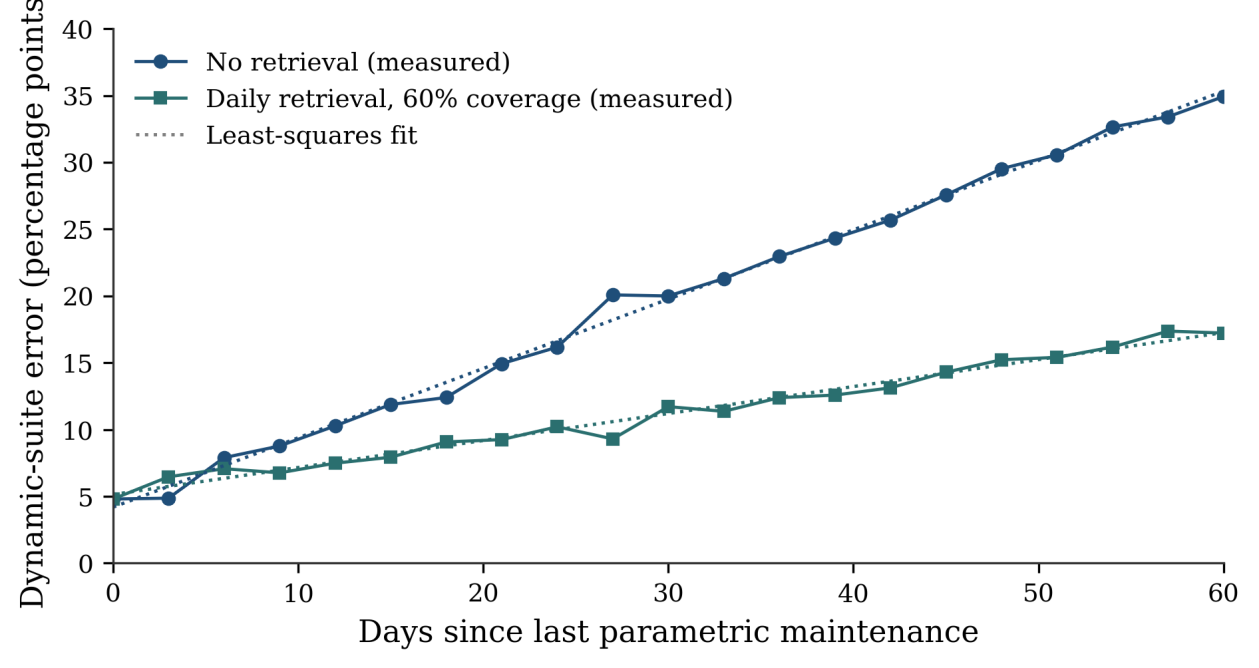
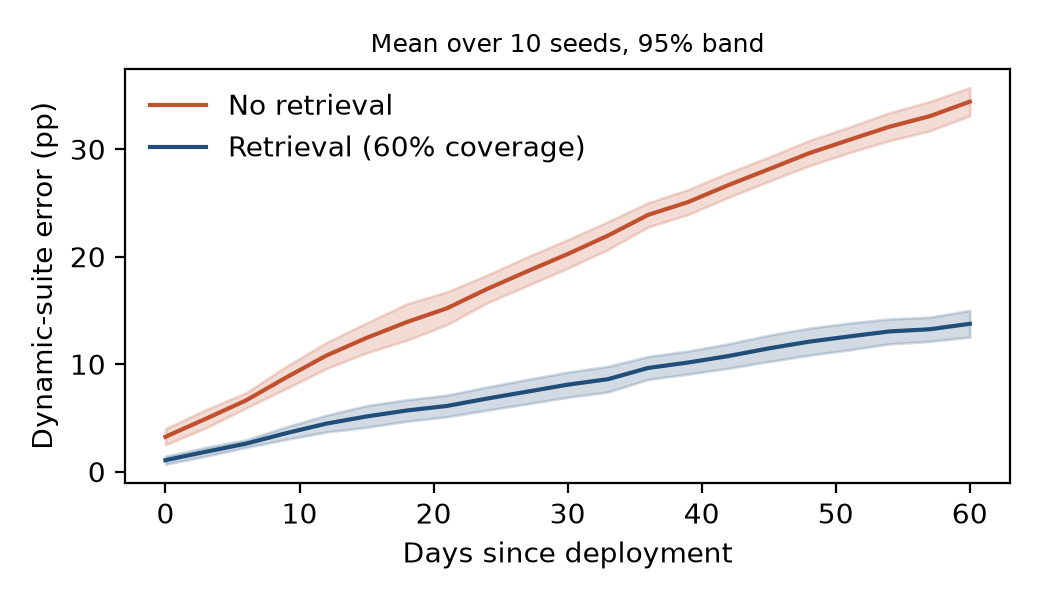
Update measurement study to the ten-seed results; revise limitations and data availability
Claude-Session: https://claude.ai/code/session_01U6LiEPsSJSoHgvUwD7nndr

Changed region(s): [[0.0, 0.0, 0.9846, 0.96]]

diff --git a/ieee_tr/manuscript.tex b/ieee_tr/manuscript.tex
@@ -28,7 +28,7 @@
 \maketitle
 
 \begin{abstract}
-A deployed large language model (LLM) is a deteriorating system. Its task-relevant accuracy decays as the world drifts away from the training distribution, and every parameter update risks damaging competence that users already rely on. We cast the resulting decision, namely when to update, by which mechanism, and whether to add an external retrieval store, as a condition-based maintenance problem. Staleness is modeled as a shock-and-wear process driven by a marked point process of drift events, and forgetting as an imperfect repair whose damage is a Fisher-information-weighted quadratic form. For a single-threshold full-retraining policy, a renewal-reward argument gives a square-root law that links update cost, drift intensity, and the optimal cycle length; the same argument shows that a repair leaving less residual damage should be applied more often, not less. For a graduated repair menu, we show that an average-cost Markov decision process admits a nested control-limit policy under stochastic monotonicity and submodularity conditions. Retrieval enters as a compensator that lowers the observed drift rate without repairing the parameters, and a closed-form condition states when the store pays for its upkeep. A measurement study on a public 70-million-parameter model supports affine staleness growth, a retrieval-absorbed share equal to corpus coverage, and a mechanism ranking in which an unreplayed low-rank adapter is dominated by taking no action.
+A deployed large language model (LLM) is a deteriorating system. Its task-relevant accuracy decays as the world drifts away from the training distribution, and every parameter update risks damaging competence that users already rely on. We cast the resulting decision, namely when to update, by which mechanism, and whether to add an external retrieval store, as a condition-based maintenance problem. Staleness is modeled as a shock-and-wear process driven by a marked point process of drift events, and forgetting as an imperfect repair whose damage is a Fisher-information-weighted quadratic form. For a single-threshold full-retraining policy, a renewal-reward argument gives a square-root law that links update cost, drift intensity, and the optimal cycle length; the same argument shows that a repair leaving less residual damage should be applied more often, not less. For a graduated repair menu, we show that an average-cost Markov decision process admits a nested control-limit policy under stochastic monotonicity and submodularity conditions. Retrieval enters as a compensator that lowers the observed drift rate without repairing the parameters, and a closed-form condition states when the store pays for its upkeep. A measurement study on a public 70-million-parameter model, replicated over ten seeds, supports affine staleness growth, a retrieval-absorbed share equal to corpus coverage, and a mechanism ranking in which an unreplayed low-rank adapter is dominated by taking no action.
 \end{abstract}
 
 \begin{IEEEkeywords}
@@ -60,7 +60,7 @@ The paper makes four contributions to the maintenance literature and one measure
 \item \emph{Fisher-weighted imperfect repair.} The forgetting penalty used in EWC and related methods \cite{kirkpatrick2017} is recast as an imperfect-repair map. Residual damage after a repair is a scalar that restarts the degradation index above zero, as in the imperfect-maintenance models surveyed in \cite{pham1996}. A direct consequence, not available from the classical replacement model, is that a cheaper and safer repair should be used more often.
 \item \emph{Multi-action control limits.} The joint timing-and-mechanism problem is an average-cost MDP on a discretized degradation index crossed with a drift-hazard regime. Under stochastic monotonicity of the transition tails, a total order on the actions, and submodularity of the continuation value, the optimal policy is a nested control-limit rule (Proposition~\ref{prop:cl}). This is the multi-action analogue of the single-threshold policies that are optimal for monotone degradation \cite{barlow1965,wang2002}.
 \item \emph{Retrieval as a compensator.} Retrieval lowers the effective drift rate by the share of shocks the corpus can absorb and does not displace parameters. Substituting the reduced rate into the renewal-reward program gives a closed-form investment test: the store is worth its upkeep exactly when the upkeep is below the reduction it creates in the optimal parametric-maintenance cost rate.
-\item \emph{Measurement.} The model inputs (staleness slope, retrieval-absorbed share, and per-mechanism cost, effectiveness, and forgetting) are instantiated on the public Pythia-70M checkpoint \cite{biderman2023} with a synthetic world of facts absent from pre-training. The study confirms affine growth and a retrieval share equal to coverage, and it exhibits a parameter-efficient update that violates the assumed action order and is dominated by no action.
+\item \emph{Measurement.} The model inputs (staleness slope, retrieval-absorbed share, and per-mechanism cost, effectiveness, and forgetting) are instantiated on the public Pythia-70M checkpoint \cite{biderman2023} with a synthetic world of facts absent from pre-training. Over ten seeds, the study confirms affine growth and a retrieval share equal to coverage, and it exhibits a parameter-efficient update that violates the assumed action order and is dominated by no action.
 \end{enumerate}
 The paper is a contribution to stochastic maintenance modeling, applied to a digital asset whose repair technology is gradient-based. It does not propose a new continual-learning algorithm, and it is not a field study of a production system.
 
@@ -349,48 +349,56 @@ Three patterns are worth stating. First, with $K_R$ fixed, $t^\ast$ falls by a f
 A Weibull inter-event law with shape above one gives an increasing hazard and a decreasing mean residual life; shape below one gives the opposite; shape one recovers the Poisson case. Section~\ref{sec:shock} predicts that a policy that shortens the calendar interval as time since the last shock grows beats the memoryless threshold under decreasing mean residual life, and that the same heuristic loses under increasing mean residual life. We have not run this experiment. For any fitted arrival model the predictions can be checked by solving the regime-dependent MDP of Section~\ref{sec:mdp}. If they are confirmed, the shape of the arrival hazard is a first-order determinant of the policy class an organization should adopt, and it is estimable from historical detector alarms.
 
 \subsection{Measurement on a Public Pretrained Model}
-The measurement side of the framework is instantiated on EleutherAI Pythia-70M \cite{biderman2023} with a synthetic world of facts guaranteed to be absent from pre-training. The world has 150 fictional companies, each with three dynamic attributes (chief executive, headquarters city, main product; 450 facts) that are subject to drift, and one static attribute (founding year; 150 facts) that never changes and serves as the retention suite. Each attribute has eight candidate values. The model is scored as correct if the true value receives the highest summed token log-probability among the eight candidates given a fixed prompt. Staleness is the error rate on the dynamic suite in percentage points; forgetting is the change in error rate on the static suite, where one static fact equals 0.67 percentage points.
+The measurement side of the framework is instantiated on EleutherAI Pythia-70M \cite{biderman2023} with a synthetic world of facts that cannot occur in pre-training. The world has 150 fictional companies, each with three dynamic attributes (chief executive, headquarters city, main product; 450 facts) that are subject to drift, and one static attribute (founding year; 150 facts) that never changes and serves as the retention suite. Each attribute has eight candidate values. The model is scored as correct if the true value receives the highest summed token log-probability among the eight candidates given a fixed prompt. Staleness is the error rate on the dynamic suite in percentage points; forgetting is the change in error rate on the static suite, where one static fact equals 0.67 percentage points.
 
-Drift events arrive as a Poisson process with rate three per day, each replacing one randomly chosen dynamic fact. Seventy percent of events are assumed detected and logged. Sixty percent of the dynamic facts are indexed in an external store refreshed daily. The deployed checkpoint at $t=0$ is obtained by fine-tuning the pretrained model until it answers at least 95\% of both suites correctly, with and without retrieved notes. All figures below come from a single random seed on a single GPU and should be read as a controlled measurement, not as an estimate with standard errors.
+Drift events arrive as a Poisson process with rate three per day, each replacing one randomly chosen dynamic fact. Seventy percent of events are detected and logged. Sixty percent of the dynamic facts are indexed in an external store refreshed daily. The deployed checkpoint at $t=0$ is obtained by fine-tuning the pretrained model until it answers at least 95\% of the dynamic suite, the static suite, and the dynamic suite with retrieved notes correctly. The training mix includes notes that conflict with the memorized value, so that the model learns to follow retrieved text; this took 65 to 175 epochs depending on the seed. Every number below is a mean over ten random seeds. Each seed draws its own company names and facts, drift stream, indexed subset, and deployed checkpoint. Intervals are 95\% $t$-intervals across seeds.
 
-Over 60 days without parametric maintenance, OLS yields a slope of 0.519 percentage points per day without retrieval ($R^2=0.98$) and 0.202 with a daily retrieval refresh ($R^2=0.96$). Both trajectories are well described by the affine mean of Section~\ref{sec:shock}. Over this horizon 180 events are expected, and the expected fraction of distinct dynamic facts that have changed at least once is $1-e^{-180/450}\approx0.33$ rather than one, so the affine fit is still a local approximation to a saturating process. Retrieval removes $1-0.202/0.519\approx0.61$ of the drift slope, which matches the indexed share of 0.60 to the resolution of the experiment: retrieval absorbs the share of drift that it covers, and no more. Substituting $\alpha/\gamma=0.61$ into \eqref{eq:retr} predicts that the store lengthens the economically optimal parametric interval by a factor of about 1.60 and lowers the optimal staleness threshold by the reciprocal factor 0.62. Fig.~\ref{fig:drift} plots the two measured trajectories and the fitted lines.
+Three parametric repairs are applied, separately and from the same deployed checkpoint, after 10 and 30 days of drift. The localized edit updates the MLP block of one layer on the logged facts whose value has changed, together with ten unchanged facts per edited fact; the replayed facts act as a locality constraint. The LoRA adapter \cite{hu2022} has rank 16 on all layers and no replay. The full fine-tune updates all parameters on the current value of every fact. Learning rates and epoch counts were fixed on a separate pilot seed that is not among the ten reported. For each mechanism we took the setting with the fewest processed tokens whose accuracy on the facts it was trained on was at least 0.9 and, for the edit, whose accuracy on untouched facts was at least 0.95. This rule was written down before the final pilot round and uses neither total error nor retention. The pilot results are part of the supplementary material.
+
+Over 60 days without parametric maintenance, OLS yields a slope of 0.525 percentage points per day without retrieval (95\% CI 0.503 to 0.547; mean $R^2=0.99$) and 0.213 with a daily retrieval refresh (0.190 to 0.237; mean $R^2=0.98$). Both trajectories are well described by the affine mean of Section~\ref{sec:shock}. Over this horizon 180 events are expected, and the expected fraction of distinct dynamic facts that have changed at least once is $1-e^{-180/450}\approx0.33$ rather than one, so the affine fit is still a local approximation to a saturating process. Retrieval removes a share $1-0.213/0.525$ of the drift slope, which averages 0.593 across seeds (95\% CI 0.547 to 0.638). The indexed share of 0.60 lies inside this interval (one-sample $t$-test against 0.60, $p=0.73$): retrieval absorbs the share of drift that it covers, and no more. Substituting the per-seed share into \eqref{eq:retr} predicts that the store lengthens the economically optimal parametric interval by a factor of 1.58 (1.49 to 1.67) and lowers the optimal staleness threshold to 0.64 (0.60 to 0.67) of its no-retrieval value. Fig.~\ref{fig:drift} plots the two measured trajectories.
 
 \begin{figure}[t]
 \centering
 \includegraphics[width=\columnwidth]{figs/fig4_measured_drift.png}
-\caption{Dynamic-suite error of the deployed Pythia-70M model over 60 days without parametric maintenance, scored every three days (single seed). Dotted lines are least-squares fits. The intercept is the residual error of the freshly maintained model. Retrieval over a corpus covering 60\% of drifting facts reduces the fitted slope from 0.519 to 0.202 percentage points per day.}\label{fig:drift}
+\caption{Dynamic-suite error of the deployed Pythia-70M model over 60 days without parametric maintenance, scored every three days. Lines are means over ten seeds and bands are 95\% intervals across seeds. Retrieval over a corpus covering 60\% of the drifting facts reduces the fitted slope from 0.525 to 0.213 percentage points per day.}\label{fig:drift}
 \end{figure}
 
 \begin{table*}[t]
-\caption{Measured Cost, Error Reduction, and Forgetting of Three Parametric Mechanisms on Pythia-70M}\label{tab:mech}
+\caption{Measured Cost, Error Reduction, and Forgetting of Three Parametric Mechanisms on Pythia-70M (Ten Seeds)}\label{tab:mech}
 \centering
 \footnotesize
-\begin{tabular}{llccc}
+\begin{tabular}{llccccc}
 \toprule
-Mechanism & Trainable subset & Cost & Error before $\to$ after (pp) & Retention change (pp)\\
+Mechanism & Trainable subset & Cost, $K'$ & Cost, $K$ & Error before $\to$ after (pp) & Retention change (pp) & Raises error (\%)\\
 \midrule
-Localized edit & MLP block of one layer, logged entities & 14.0 & $17.4\to13.8$ & $-2.0$\\
-LoRA, rank 16, no replay & Low-rank adapters, all layers & 2.6 & $17.4\to24.4$ & $+11.0$\\
-Full fine-tune & All parameters & 1000 & $17.4\to5.7$ & $-2.0$\\
+Localized edit & MLP block of one layer & 37 & 636 & $16.7\to11.7$ & $-1.1$ (SD 1.5) & 40\\
+LoRA, rank 16, no replay & Low-rank adapters, all layers & 1.4 & 71 & $16.7\to94.5$ & $+36.0$ (SD 11.6) & 100\\
+Full fine-tune & All parameters & 1000 & 1000 & $16.7\to4.4$ & $-1.4$ (SD 1.8) & 5\\
 \bottomrule
 \end{tabular}\\[2pt]
-\parbox{0.92\textwidth}{\footnotesize Values are averages of interventions after 10 and 30 days of drift. Costs use the trainable-parameter accounting and are normalized so that a full fine-tune equals 1000 units. Error is the sum of dynamic-suite staleness and static-suite error, that is, $D$ plus the residual error of the deployed model. A change of $-2.0$ pp is three of 150 retention facts and lies within single-seed noise.}
+\parbox{0.92\textwidth}{\footnotesize Means over ten seeds of the average of the interventions after 10 and 30 days of drift. Costs are normalized so that a full fine-tune equals 1000 units, under the trainable-parameter accounting $K'$ and the forward-inclusive accounting $K$ of Section~\ref{sec:model}. Error is the sum of dynamic-suite and static-suite error and can therefore exceed 100. Retention change is the change in static-suite error; one static fact is 0.67 pp. The last column is the share of the 20 interventions (ten seeds, two days) after which total error was not lower than before.}
 \end{table*}
 
-Table~\ref{tab:mech} gives the cost, error reduction, and forgetting of three parametric mechanisms. Two of them behave as the framework anticipates. The full fine-tune is the most effective and by far the most expensive. The localized edit removes less error at two orders of magnitude lower trainable-parameter cost, and neither mechanism produced measurable forgetting. Per unit of that cost, the edit removes more error than the full fine-tune, which is the concrete expression of the Section~\ref{sec:imperfect} argument that a displacement confined to a small subspace can purchase plasticity at negligible stability cost. The comparison overstates the edit's advantage under the forward-inclusive accounting of Section~\ref{sec:model}, which also charges a forward pass through all parameters and a backward pass down to the edited layer. Together, the two mechanisms satisfy the order assumed in condition (ii) of Assumption~\ref{as:monotone}: the more aggressive action is both more effective and more expensive. Fig.~\ref{fig:mech} summarizes the three columns of Table~\ref{tab:mech}.
+Table~\ref{tab:mech} gives the cost, error reduction, and forgetting of the three mechanisms. The full fine-tune is the most effective and by far the most expensive: it lowers total error by 12.3 pp (95\% CI 9.1 to 15.6) and raised it in only one of 20 interventions. The localized edit lowers total error by 5.1 pp (0.8 to 9.4) at a trainable-parameter cost 27 times smaller. Neither shows forgetting. Their retention changes of $-1.1$ and $-1.4$ pp are below two static facts and slightly negative, which is expected because the static facts are partly replayed. Fig.~\ref{fig:mech} summarizes the three columns of Table~\ref{tab:mech}.
 
 \begin{figure}[t]
 \centering
 \includegraphics[width=\columnwidth]{figs/fig5_mechanisms.png}
-\caption{Measured cost, error reduction, and forgetting of the three parametric mechanisms in Table~\ref{tab:mech}. The unreplayed low-rank adapter is cheap but increases total error and retention error, and is therefore dominated by taking no action.}\label{fig:mech}
+\caption{Measured cost, error reduction, and forgetting of the three parametric mechanisms in Table~\ref{tab:mech}; bars are means over ten seeds with one standard deviation, dots are single seeds. The unreplayed low-rank adapter is cheap but raises total error and retention error, and is therefore dominated by taking no action.}\label{fig:mech}
 \end{figure}
 
-The low-rank adapter does not follow the pattern. It is the cheapest of the three under trainable-parameter accounting, yet it raises total error from 17.4 to 24.4 percentage points and induces 11.0 points of forgetting on the retention suite. An unreplayed adapter trained at a comparatively high learning rate on drifting facts alone produces a displacement that is not orthogonal to high-curvature directions of the pre-update loss on static facts. Low rank bounds the Euclidean size of $\Delta\theta$ and does not by itself constrain the Fisher-weighted norm: parameter efficiency is not low forgetting. The measured costs also break the nominal order of the action set, because the efficient action is cheaper than the edit instead of more expensive. The adapter is nevertheless harmless to the policy. It costs more than no action, forgets more, and leaves a higher next-state error, so it is dominated. Because $V$ is nondecreasing in $d$, an action whose one-step cost is higher and whose next state is stochastically larger than those of no action is never strictly preferred. Removing it leaves the ordered set \{no-op, localized edit, full fine-tune\}, which satisfies condition (ii). We report the configuration as measured instead of tuning it away because it shows that the ordering in Proposition~\ref{prop:cl} is a property to be verified from a table of the form of Table~\ref{tab:mech}.
+The benefit of the edit depends on the state in which it is applied. After 10 days, when total error before repair averages 11.4 pp, the edit changed total error by $+0.9$ pp on average and raised it in six of ten seeds. After 30 days, at 22.0 pp, it lowered error by 11.1 pp and raised it in two of ten seeds. This is the pattern a control-limit policy exploits, doing nothing below a threshold and editing above it. Two maintenance epochs are too few to estimate the threshold, so we offer this as an observation and not as a test of Proposition~\ref{prop:cl}. Two qualifications apply. First, the edit worked only with locality replay. In a pilot with one replayed fact per edited fact, the edit settings that fitted at least 0.9 of the edited facts still raised total error by 22 to 34 pp, because the update overwrote unchanged dynamic facts. Second, the fixed settings did not transfer evenly across seeds. The mean accuracy on the facts being repaired was 0.65 for the edit (0.15 to 1.00 across seeds) and 0.85 for the full fine-tune, against 0.95 and 0.99 on the pilot seed. We did not investigate the cause.
 
-The study validates the framework at the level of its inputs, on a small model with synthetic drift. Validation at the level of the scheduling decision itself, namely a closed-loop comparison of a periodic calendar with the control-limit policy of Proposition~\ref{prop:cl}, replication over seeds, and larger models, is left open.
+The edit's cost advantage also depends on the accounting. Under the trainable-parameter accounting, the edit removes about eleven times more error per cost unit than the full fine-tune (0.135 versus 0.012 pp per unit). Under the forward-inclusive accounting, which also charges a forward pass through all parameters and a backward pass down to the edited layer, the edit costs 636 against 1000 and the ranking reverses (0.0079 versus 0.0123). Part of the difference is the replay: the edit processes more tokens than the full fine-tune (about 73,000 against 58,000). In all ten seeds, the full fine-tune was both more effective and more expensive than the edit under the trainable-parameter accounting, so the order assumed in condition (ii) of Assumption~\ref{as:monotone} holds for these two actions.
+
+The low-rank adapter does not follow the pattern. It is the cheapest of the three under both accountings, yet it raised total error from 16.7 to 94.5 pp, in every one of the 20 interventions, and raised static-suite error by 36.0 pp (SD 11.6). Accuracy on untouched facts fell to 46\%, against about 95\% after the edit and 98\% after the full fine-tune. An unreplayed adapter trained at a comparatively high learning rate on drifting facts alone produces a displacement that need not be orthogonal to high-curvature directions of the pre-update loss, which is consistent with this damage. Low rank bounds the Euclidean size of $\Delta\theta$ and does not by itself constrain the Fisher-weighted norm: parameter efficiency is not low forgetting. The result is not confined to one learning rate. In the pilot, no setting between $10^{-4}$ and $2\times10^{-3}$ lowered total error at either maintenance day.
+
+The measured costs also break the nominal order of the action set, because the efficient action is cheaper than the edit instead of more expensive. The adapter is nevertheless harmless to the policy. It costs more than no action, forgets more, and leaves a higher next-state error, so it is dominated. Because $V$ is nondecreasing in $d$, an action whose one-step cost is higher and whose next state is stochastically larger than those of no action is never strictly preferred. Removing it leaves the ordered set \{no-op, localized edit, full fine-tune\}. We report the configuration as measured instead of tuning it away because it shows that the ordering in Proposition~\ref{prop:cl} is a property to be verified from a table of the form of Table~\ref{tab:mech}.
+
+The study validates the framework at the level of its inputs, on a small model with synthetic drift, replicated over ten seeds. Validation at the level of the scheduling decision itself, namely a closed-loop comparison of a periodic calendar with the control-limit policy of Proposition~\ref{prop:cl}, and replication on larger models, is left open.
 
 \subsection{Summary of Findings}
-Six findings close the analysis. (1) Under Poisson arrivals the optimal interval grows with the square root of retrain cost and shrinks with the square root of drift intensity, while the tolerated staleness grows with both. (2) The adequacy of a memoryless threshold is hypothesized to depend on the ageing property of the arrival law, with opposite prescriptions for a long quiet interval. (3) Forgetting is a Fisher-weighted quadratic form; lower forgetting per event lowers the optimal cost rate and shortens the optimal interval. (4) Under Assumption~\ref{as:monotone}, an optimal policy over a graduated menu is a nested control-limit rule. (5) Retrieval lengthens the parametric interval by $\sqrt{\gamma/(\gamma-\alpha)}$, dominates parametric maintenance alone when \eqref{eq:invest} holds, and cannot substitute when drift is not retrievable. (6) On Pythia-70M, measured staleness grows affinely with a retrieval share equal to coverage, a localized edit removes more error per trainable-parameter unit than full fine-tuning, and an unreplayed low-rank adapter is dominated by no action.
+Six findings close the analysis. (1) Under Poisson arrivals the optimal interval grows with the square root of retrain cost and shrinks with the square root of drift intensity, while the tolerated staleness grows with both. (2) The adequacy of a memoryless threshold is hypothesized to depend on the ageing property of the arrival law, with opposite prescriptions for a long quiet interval. (3) Forgetting is a Fisher-weighted quadratic form; lower forgetting per event lowers the optimal cost rate and shortens the optimal interval. (4) Under Assumption~\ref{as:monotone}, an optimal policy over a graduated menu is a nested control-limit rule. (5) Retrieval lengthens the parametric interval by $\sqrt{\gamma/(\gamma-\alpha)}$, dominates parametric maintenance alone when \eqref{eq:invest} holds, and cannot substitute when drift is not retrievable. (6) On Pythia-70M over ten seeds, measured staleness grows affinely with a retrieval share equal to coverage (0.59 against 0.60), full fine-tuning is the most effective repair, a localized edit helps on average but only with a locality constraint and not at low staleness, and an unreplayed low-rank adapter is dominated by no action in every intervention.
 
 \section{Discussion}\label{sec:disc}
 \subsection{Limitations and Further Work}
@@ -402,13 +410,13 @@ Six findings close the analysis. (1) Under Poisson arrivals the optimal interval
 
 \emph{Nonstationary primitives.} If $\beta$, $\lambda$, and $\mu_\xi$ themselves drift, the fixed-parameter control problem becomes an adaptive-control problem, and the estimator of Section~\ref{sec:est} must be replaced by an online filter.
 
-\emph{Empirical scope.} The measurement study is a controlled experiment on a 70-million-parameter checkpoint with synthetic drift, one seed, and a closed eight-way scoring rule. It confirms the model's inputs but not the scheduling result on a production horizon. The cost comparison also depends on which floating-point accounting is used. The natural next step is to fit $(\gamma,\alpha,K(a),F(a),\rho(a))$ on telemetry from a deployed system and to compare the control-limit policy with the incumbent calendar in closed loop.
+\emph{Empirical scope.} The measurement study is a controlled experiment on one 70-million-parameter checkpoint with synthetic drift, ten seeds, two maintenance epochs per seed, and a closed eight-way scoring rule. It confirms the model's inputs but not the scheduling result on a production horizon. Repair settings were fixed on one pilot seed and fitted the repaired facts unevenly on the reported seeds, and the localized edit includes a replay constraint that is a design choice. The cost comparison also depends on which floating-point accounting is used, and the edit's cost advantage over full fine-tuning largely disappears under the forward-inclusive accounting. The natural next step is to fit $(\gamma,\alpha,K(a),F(a),\rho(a))$ on telemetry from a deployed system and to compare the control-limit policy with the incumbent calendar in closed loop.
 
 \subsection{Operational Implications}
-Four rules survive these limitations and do not require a precisely fitted $\eta^\ast$. First, set the cadence from measured $\gamma$ and $K_R$ through the square-root formula; a tenfold rise in update cost justifies only about a threefold longer interval, and a fourfold rise in drift intensity justifies a halved interval, not a quartered one. Second, admit a mechanism to the menu only after measuring its cost, its error reduction, and its forgetting on a fixed retention suite, in the format of Table~\ref{tab:mech}; a name such as low-rank adaptation does not guarantee a place in the order. Third, treat the forgetting tolerance $\eps$ and the unit cost $c_F$ as governance parameters rather than trainer hyperparameters; residual forgetting imposes a permanent flow that no cadence removes, so a cheap damaging repair can lose to an expensive safe one. Fourth, invest in retrieval when \eqref{eq:invest} holds and only for the share of drift the corpus actually covers; that coverage is an operational metric to be re-estimated, not a one-time design choice.
+Four rules survive these limitations and do not require a precisely fitted $\eta^\ast$. First, set the cadence from measured $\gamma$ and $K_R$ through the square-root formula; a tenfold rise in update cost justifies only about a threefold longer interval, and a fourfold rise in drift intensity justifies a halved interval, not a quartered one. Second, admit a mechanism to the menu only after measuring its cost, its error reduction, its forgetting on a fixed retention suite, and, for edits, its effect on untouched facts, in the format of Table~\ref{tab:mech}; a name such as low-rank adaptation does not guarantee a place in the order. Third, treat the forgetting tolerance $\eps$ and the unit cost $c_F$ as governance parameters rather than trainer hyperparameters; residual forgetting imposes a permanent flow that no cadence removes, so a cheap damaging repair can lose to an expensive safe one. Fourth, invest in retrieval when \eqref{eq:invest} holds and only for the share of drift the corpus actually covers; that coverage is an operational metric to be re-estimated, not a one-time design choice.
 
 \section{Summary and Conclusions}\label{sec:concl}
-Maintaining a deployed LLM, that is, deciding when, how much, and by which mechanism to update it, is a CBM problem for a deteriorating system whose repair technology can itself damage the plant. Modeling staleness as a shock-and-wear process, forgetting as a Fisher-weighted imperfect repair, and mechanism selection as an average-cost MDP yields closed forms in restricted cases and a structural theorem for the graduated menu. The square-root law ties update cost and drift intensity to the economically optimal interval. The imperfect-repair comparative static says that safer repairs should be used more often. Retrieval is a compensator that substitutes only for the absorbable share of drift, and a closed-form test says when it is worth its upkeep. A small-model measurement study confirms the affine and coverage assumptions and shows that the monotone action order is a measured property of mechanisms, not an article of faith.
+Maintaining a deployed LLM, that is, deciding when, how much, and by which mechanism to update it, is a CBM problem for a deteriorating system whose repair technology can itself damage the plant. Modeling staleness as a shock-and-wear process, forgetting as a Fisher-weighted imperfect repair, and mechanism selection as an average-cost MDP yields closed forms in restricted cases and a structural theorem for the graduated menu. The square-root law ties update cost and drift intensity to the economically optimal interval. The imperfect-repair comparative static says that safer repairs should be used more often. Retrieval is a compensator that substitutes only for the absorbable share of drift, and a closed-form test says when it is worth its upkeep. A small-model measurement study, replicated over ten seeds, confirms the affine and coverage assumptions and shows that the monotone action order is a measured property of mechanisms, not an article of faith: the localized edit pays off only with a locality constraint and at sufficient staleness, and an unreplayed low-rank adapter is dominated by no action.
 
 The central claim is methodological. Treating language-model upkeep as a stochastic control problem, instead of as separately tuned heuristics for drift detection, forgetting mitigation, and cost control, explains patterns already visible in cadence studies and produces falsifiable predictions that can be taken to production telemetry.
 
@@ -454,7 +462,7 @@ Ook Lee: Conceptualization, Methodology, Formal analysis, Investigation, Writing
 The author declares that he has no known competing financial interests or personal relationships that could have appeared to influence the work reported in this paper.
 
 \section*{Data Availability}
-The measurement study uses the public EleutherAI Pythia-70M checkpoint. The synthetic evaluation items and scoring scripts will be made available by the author upon reasonable request. No proprietary organizational telemetry is used.
+The measurement study uses the public EleutherAI Pythia-70M checkpoint. The code that generates the synthetic world and runs the training, drift simulation, and scoring, the per-seed result files for all ten reported seeds, and the pilot results used to fix the repair settings will be deposited in a public archive, and the DOI will be inserted before publication. No proprietary organizational telemetry is used.
 
 \begin{thebibliography}{99}
 \bibitem{arts2025} J. Arts, R. N. Boute, S. Loeys, and H. E. van Staden, ``Fifty years of maintenance optimization: Reflections and perspectives,'' \emph{Eur. J. Oper. Res.}, vol. 322, no. 3, pp. 725--739, 2025.
